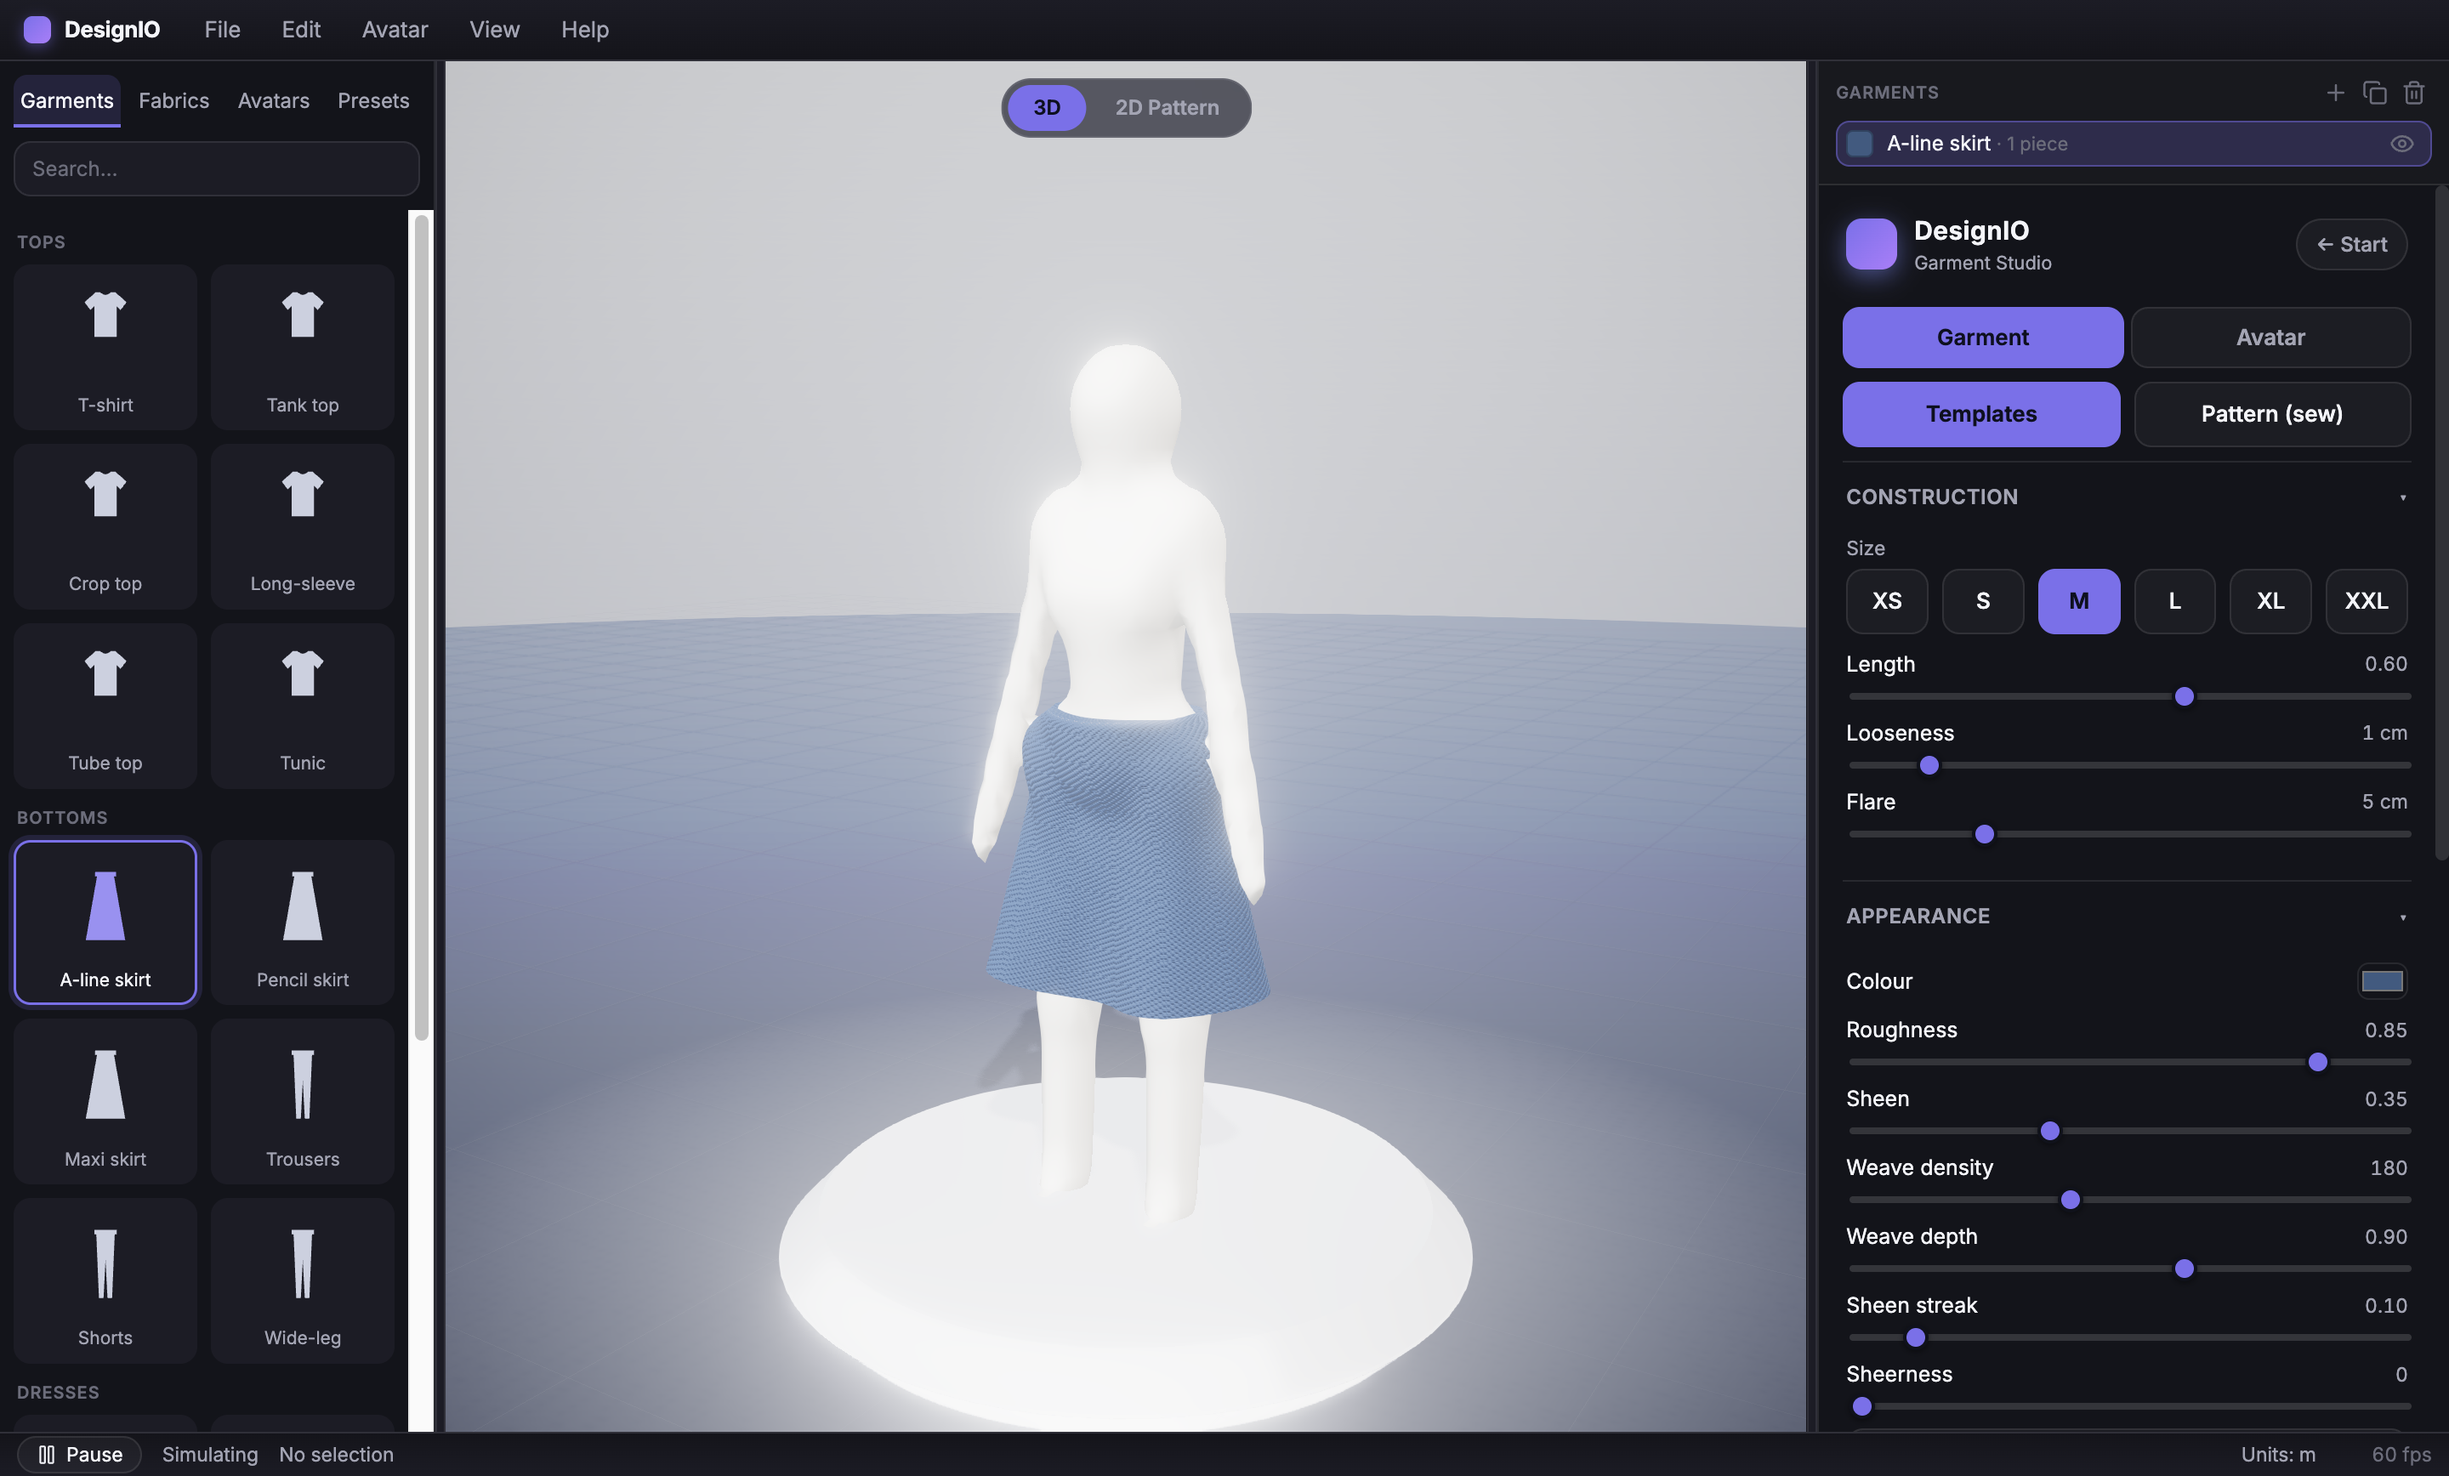
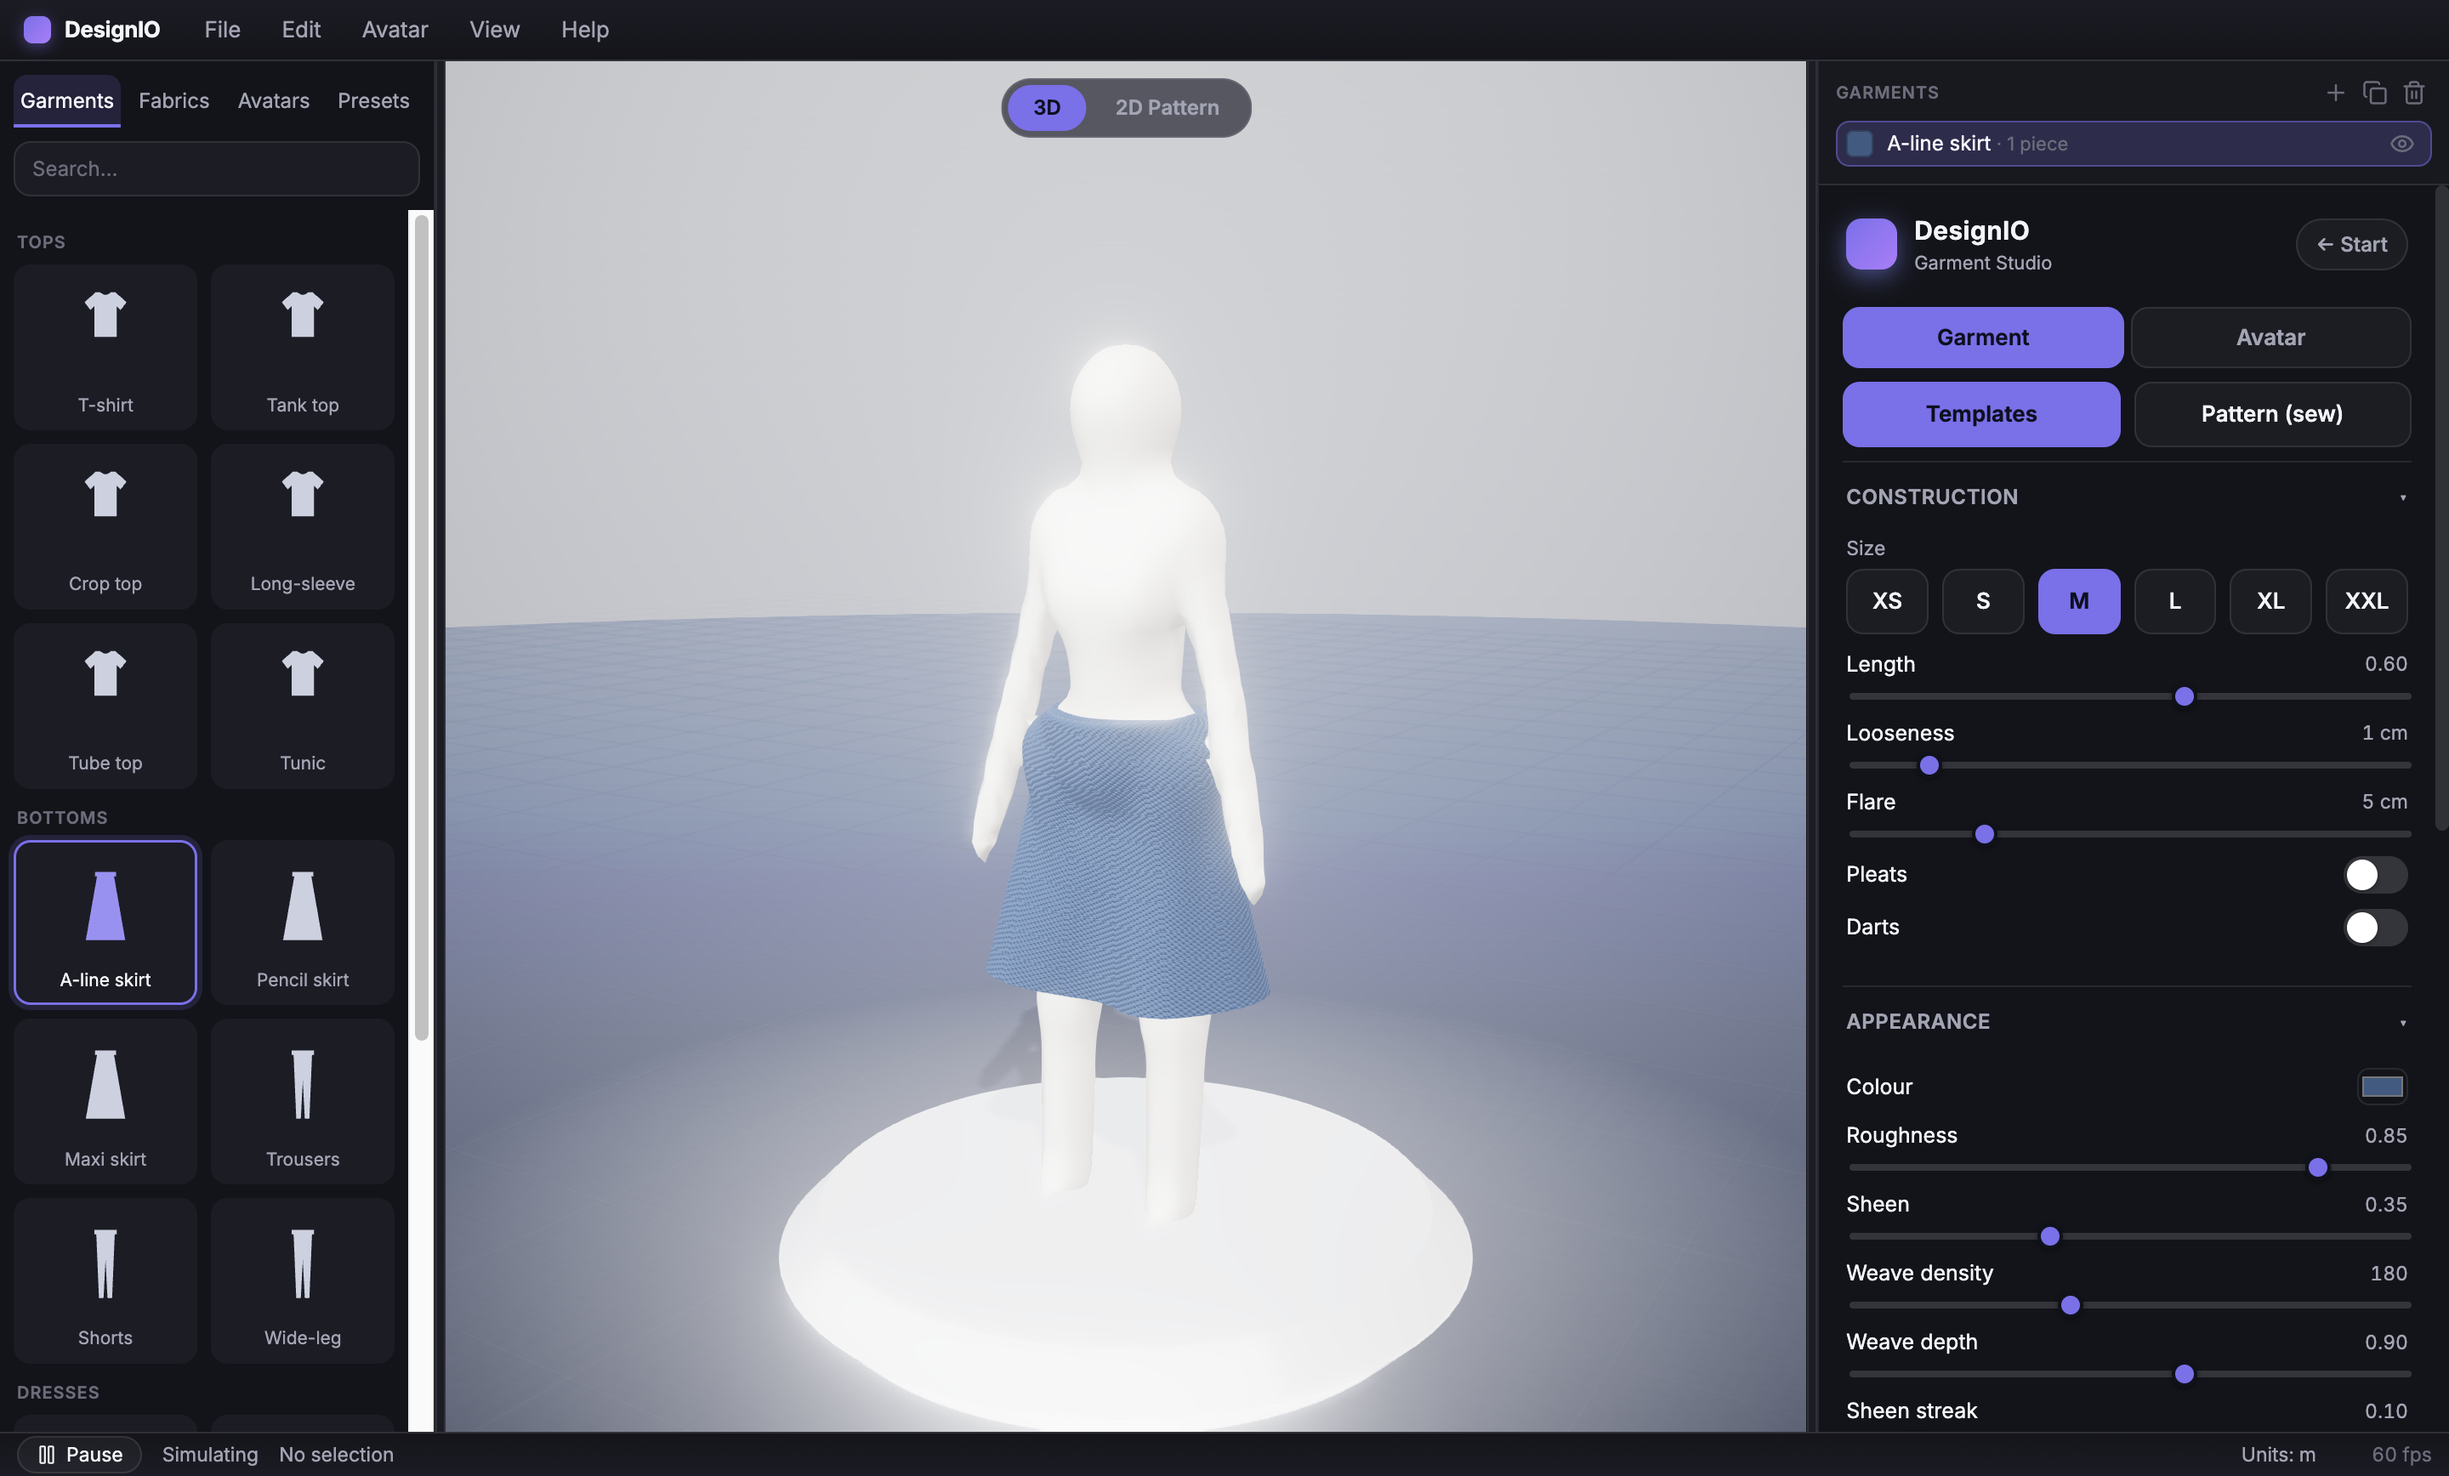
Docs + README images: construction detail (collar/cuff/pleats/darts)

Changed region(s): [[0.75, 0.591, 1.0, 0.9643], [0.9375, 0.5599, 1.0, 0.6843]]

diff --git a/CLAUDE.md b/CLAUDE.md
@@ -52,8 +52,10 @@ Renderer modules:
 - `fabric/` — `FabricLibrary` (physical + visual fabrics; `fabricToSolverParams` derives drape),
   `weaveTexture` (procedural weave normal maps; pure math is unit-tested).
 - `garments/` — **data-driven catalog**: `schema` (`GarmentDefinition` = category + composable pieces +
-  supported controls), `registry` (the garments, as data), `factory` (`buildGarment` composes pieces).
-  Adding a garment is a data change, not new code.
+  `ConstructionCaps` — neckline/sleeve/length/ease/flare + **collar/cuff/pleats/dart** detail), `registry`
+  (the garments, as data), `factory` (`buildGarment` composes pieces; construction detail is folded into
+  the tube/sleeve specs so the 3D silhouette + the 2D pattern both reflect it). Adding a garment or a
+  supported detail is a data change, not new code.
 - `garment/` — `GarmentController` (one garment's multi-piece sim, consumes the factory); `templates`
   (shared `GarmentParams`/types only). `avatar/BodyCollider` uses `three-mesh-bvh` for mesh collision.
 - `studio/` — the **multi-garment layer stack**: `document` (`ProjectDoc` = body + scene + serialisable
@@ -105,7 +107,7 @@ Renderer modules:
 its defaults) · `?fabric=<id>` · `?mode=pattern` · `?anim=idle|walk|turn` · `?bodyType=female|male` ·
 `?bodyH=<s>&bodyB=<s>&bodyBust=<s>&bodyWaist=<s>&bodyHips=<s>` (mannequin size/shape) · `?text=<print>` ·
 `?view=pattern` (open the 2D flat-pattern tab) · `?body=mesh|glb` (procedural vs realistic-GLB avatar) ·
-`?layers=<id>,<id>` (layer extra garments on the body — a layered outfit) ·
+`?layers=<id>,<id>` (layer extra garments on the body) · `?collar/cuff/pleats/dart=1` (construction detail) ·
 `?closeup=1` (macro camera) · `?still=1` (freeze the start-page turntable) · `?page=start` (deep-link the
 builder) · `?page=projects[&demo]` (the Projects gallery; `demo` seeds a few looks). Entry is the homepage
 launcher → start page / Projects → studio. Regenerate docs with `npm run capture`.

diff --git a/README.md b/README.md
@@ -153,6 +153,14 @@ Beyond the start page, the studio's **Appearance** panel lets you **import a PNG
 **printed text** onto the garment live — with an adjustable graphic size — so you can iterate on prints
 while the cloth simulates.
 
+### Go deep on construction detail
+Beyond the silhouette, add real **construction detail** — a **collar** (raises/closes the neckline into a
+stand), fitted **cuffs**, **pleats** (a fuller, swishier hem), and **darts** (a nipped, tailored waist).
+Each one shows up **both** on the 3D garment and in the flat pattern (the panels reshape, and the pattern
+notes the detail), and each garment only offers the details it supports.
+
+![A collar + cuffs + darted long-sleeve top](docs/detail.png)
+
 ### Size it · see every measurement · pack it for the factory
 Pick a **size** (XS – XXL) and the garment **grades** to fit; the **Measurements** panel shows the real
 production spec **live** — chest, waist, hip, length, sleeve, inseam, hem sweep, plus estimated **fabric
